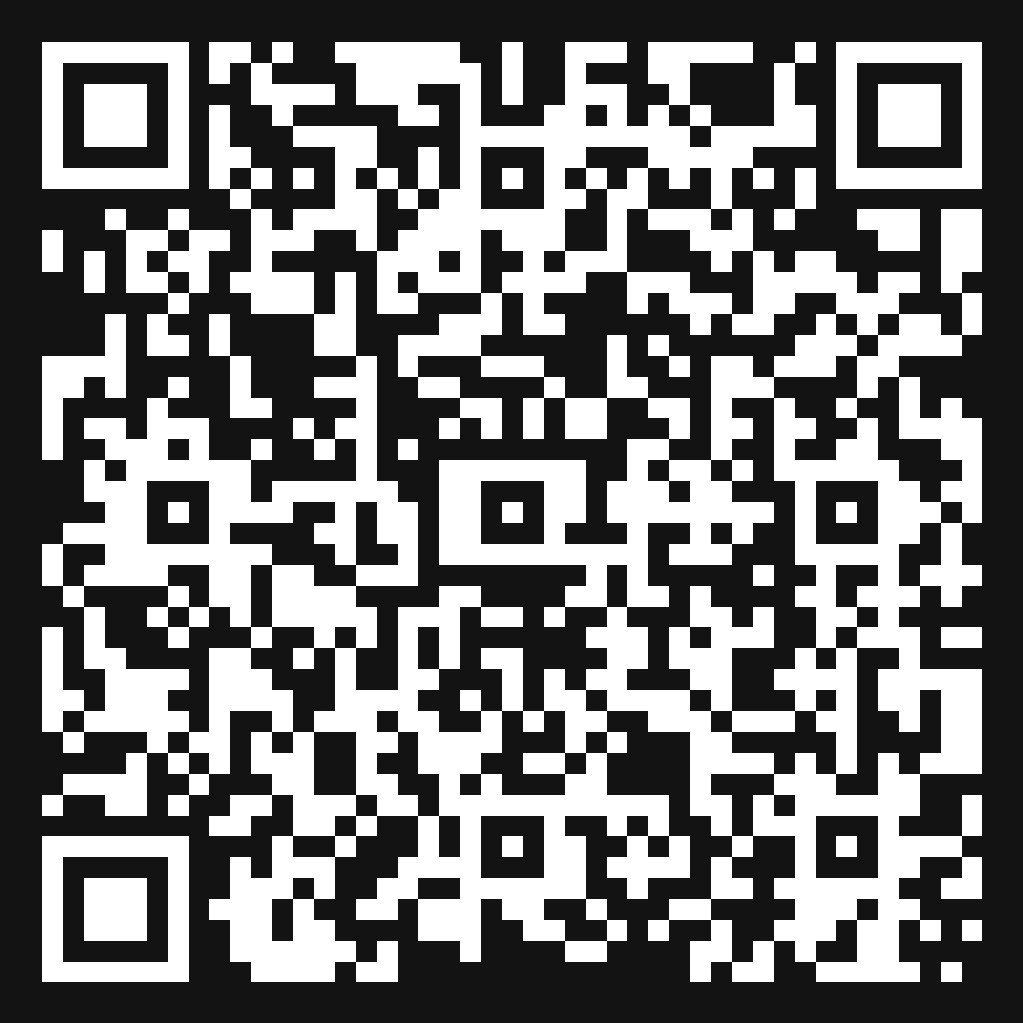
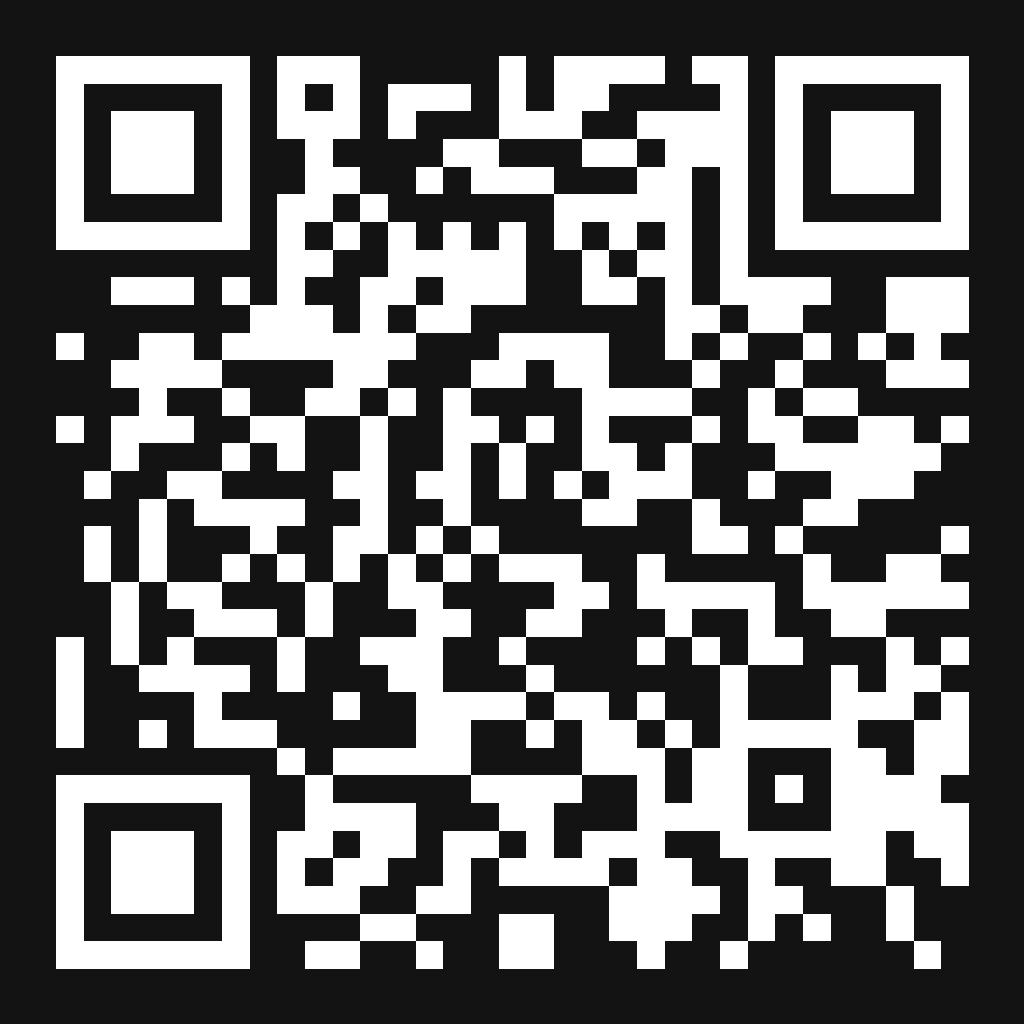
Point share QR codes at the Vercel production URL.
Ship a fresh sportsync-qr.png for sport-sync-xi.vercel.app and update share fallbacks so beta and home QR open the live app.

diff --git a/components/home/ShareQrButton.tsx b/components/home/ShareQrButton.tsx
@@ -4,8 +4,8 @@ import { useEffect, useId, useState } from 'react';
 import { createPortal } from 'react-dom';
 import { AnimatePresence, motion } from 'framer-motion';
 
-const SHARE_URL = 'https://sportsync-ct5.pages.dev';
-const QR_IMAGE_SRC = '/share/sportsync-qr.png?v=3';
+const SHARE_URL = 'https://sport-sync-xi.vercel.app';
+const QR_IMAGE_SRC = '/share/sportsync-qr.png?v=4';
 
 export function ShareQrButton() {
   const [open, setOpen] = useState(false);

diff --git a/lib/share/app-url.ts b/lib/share/app-url.ts
@@ -11,5 +11,5 @@ export function resolveShareAppUrl(hostHeader?: string | null): string {
     }
   }
 
-  return 'https://sportsync-ct5.pages.dev';
+  return 'https://sport-sync-xi.vercel.app';
 }
